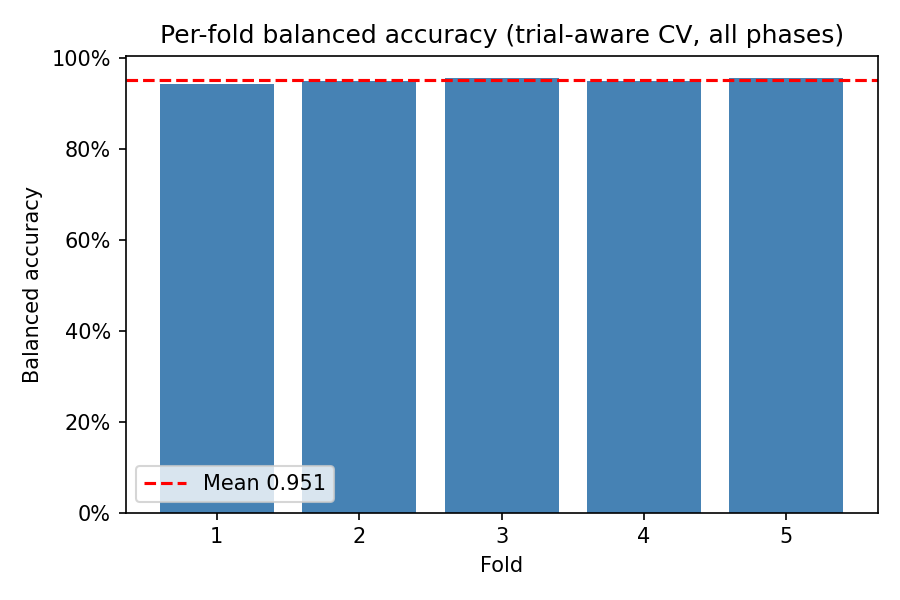
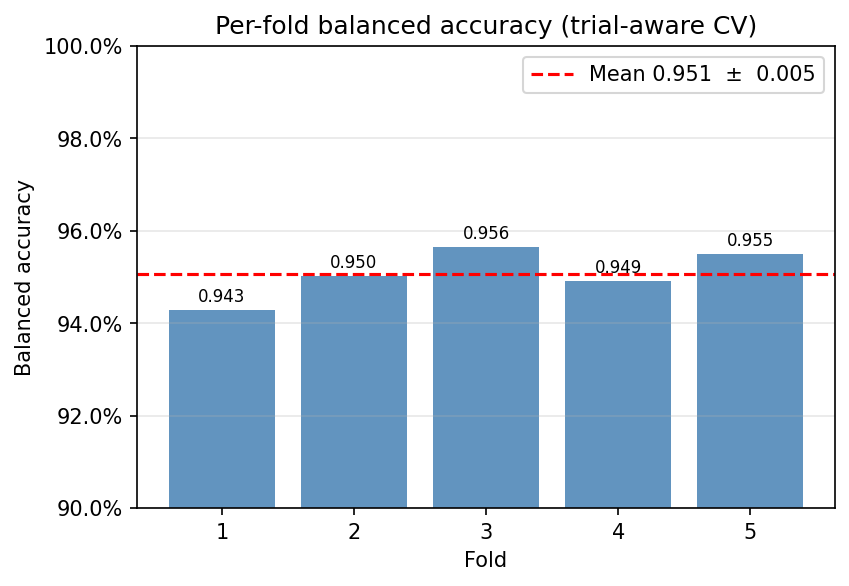
Add recording of parameters vs results for RF training script, also plotting script

diff --git a/server/plot_results.py b/server/plot_results.py
@@ -1,0 +1,203 @@
+'''
+Plot Results Script
+
+Generates visualisations from a trained model's results directory.
+
+Always produced (from results.json + fold_scores.npy):
+  per_class_metrics.png   — precision / recall / F1 per class
+  fold_scores.png         — per-fold balanced accuracy (regenerated)
+
+Produced if cv_results.json exists (saved by train_model_all_phases.py):
+  param_n_estimators.png  — score vs n_estimators (marginalised over other params)
+  param_max_features.png  — score vs max_features
+  param_max_depth.png     — score vs max_depth
+  param_min_samples_leaf.png — score vs min_samples_leaf
+  param_heatmap.png       — n_estimators × max_depth mean score heatmap
+
+Usage:
+  python plot_results.py                    # defaults to results_all_phases/
+  python plot_results.py results_steady
+'''
+
+import os
+import sys
+import json
+import numpy as np
+import matplotlib.pyplot as plt
+import matplotlib.ticker as ticker
+from collections import defaultdict
+
+RESULTS_DIR = sys.argv[1] if len(sys.argv) > 1 else 'results_all_phases'
+
+# ── Load ──────────────────────────────────────────────────────────────────────
+
+with open(os.path.join(RESULTS_DIR, 'results.json')) as f:
+    results = json.load(f)
+
+fold_scores = np.load(os.path.join(RESULTS_DIR, 'fold_scores.npy'))
+classes     = results['class_order']
+report      = results['classification_report']
+best_params = results['best_params']
+
+cv_results_path = os.path.join(RESULTS_DIR, 'cv_results.json')
+cv_results = None
+if os.path.exists(cv_results_path):
+    with open(cv_results_path) as f:
+        cv_results = json.load(f)
+    print('cv_results.json found — parameter comparison plots will be generated.')
+else:
+    print('cv_results.json not found — only metric plots will be generated.')
+    print('Re-run train_model_all_phases.py to produce it on the next training run.')
+
+
+# ── Helpers ───────────────────────────────────────────────────────────────────
+
+def save(fig, name):
+    path = os.path.join(RESULTS_DIR, name)
+    fig.savefig(path, dpi=150, bbox_inches='tight')
+    plt.close(fig)
+    print(f'  Saved {path}')
+
+
+# ── Per-class metrics ─────────────────────────────────────────────────────────
+
+def plot_per_class_metrics():
+    metrics   = ['precision', 'recall', 'f1-score']
+    n_classes = len(classes)
+    x         = np.arange(n_classes)
+    width     = 0.25
+    colors    = ['#4C72B0', '#55A868', '#C44E52']
+
+    fig, ax = plt.subplots(figsize=(9, 5))
+    for i, (metric, color) in enumerate(zip(metrics, colors)):
+        vals = [report[cls][metric] for cls in classes]
+        bars = ax.bar(x + (i - 1) * width, vals, width, label=metric.replace('-score', ''),
+                      color=color, alpha=0.85)
+        for bar, v in zip(bars, vals):
+            ax.text(bar.get_x() + bar.get_width() / 2, bar.get_height() + 0.003,
+                    f'{v:.3f}', ha='center', va='bottom', fontsize=7)
+
+    ax.set_xticks(x)
+    ax.set_xticklabels(classes)
+    ax.set_ylabel('Score')
+    ax.set_ylim(0.88, 1.01)
+    ax.yaxis.set_major_formatter(ticker.PercentFormatter(xmax=1.0))
+    ax.set_title('Per-class precision / recall / F1  (CV, train set)')
+    ax.legend()
+    ax.grid(axis='y', alpha=0.3)
+    save(fig, 'per_class_metrics.png')
+
+
+# ── Fold scores ───────────────────────────────────────────────────────────────
+
+def plot_fold_scores():
+    fig, ax = plt.subplots(figsize=(6, 4))
+    ax.bar(range(1, len(fold_scores) + 1), fold_scores, color='steelblue', alpha=0.85)
+    ax.axhline(fold_scores.mean(), color='red', linestyle='--',
+               label=f'Mean {fold_scores.mean():.3f}  ±  {fold_scores.std():.3f}')
+    for i, s in enumerate(fold_scores):
+        ax.text(i + 1, s + 0.001, f'{s:.3f}', ha='center', va='bottom', fontsize=8)
+    ax.set_xlabel('Fold')
+    ax.set_ylabel('Balanced accuracy')
+    ax.set_ylim(0.9, 1.0)
+    ax.yaxis.set_major_formatter(ticker.PercentFormatter(xmax=1.0))
+    ax.set_title('Per-fold balanced accuracy (trial-aware CV)')
+    ax.legend()
+    ax.grid(axis='y', alpha=0.3)
+    save(fig, 'fold_scores.png')
+
+
+# ── Parameter comparison ──────────────────────────────────────────────────────
+
+def _mean_score_by_param(param_key):
+    '''
+    For each unique value of param_key, collect all mean_test_scores
+    (marginalised over the other parameters) and return value → scores dict.
+    '''
+    param_col = f'param_{param_key}'
+    scores    = np.array(cv_results['mean_test_score'])
+    values    = cv_results[param_col]
+    grouped   = defaultdict(list)
+    for v, s in zip(values, scores):
+        grouped[str(v)].append(s)
+    return grouped
+
+
+def plot_param_marginal(param_key, xlabel, title, fname):
+    grouped = _mean_score_by_param(param_key)
+    labels  = sorted(grouped.keys(), key=lambda x: (x == 'None', x))
+    means   = [np.mean(grouped[l]) for l in labels]
+    stds    = [np.std(grouped[l])  for l in labels]
+
+    # highlight best
+    best_str = str(best_params.get(param_key, ''))
+    colors   = ['#C44E52' if l == best_str else '#4C72B0' for l in labels]
+
+    fig, ax = plt.subplots(figsize=(7, 4))
+    bars = ax.bar(labels, means, yerr=stds, capsize=5, color=colors, alpha=0.85,
+                  error_kw={'elinewidth': 1.5})
+    for bar, m in zip(bars, means):
+        ax.text(bar.get_x() + bar.get_width() / 2, bar.get_height() + 0.001,
+                f'{m:.4f}', ha='center', va='bottom', fontsize=8)
+    ax.set_xlabel(xlabel)
+    ax.set_ylabel('Mean balanced accuracy (CV)')
+    bottom = max(0.0, min(means) - 3 * max(stds) - 0.01)
+    ax.set_ylim(bottom, min(1.0, max(means) + max(stds) + 0.02))
+    ax.yaxis.set_major_formatter(ticker.PercentFormatter(xmax=1.0))
+    ax.set_title(title)
+    ax.grid(axis='y', alpha=0.3)
+    from matplotlib.patches import Patch
+    ax.legend(handles=[Patch(color='#C44E52', label='best selected'),
+                        Patch(color='#4C72B0', label='other')], fontsize=8)
+    save(fig, fname)
+
+
+def plot_heatmap():
+    '''n_estimators (rows) × max_depth (cols) mean score, averaged over other params.'''
+    estimators = sorted(set(str(v) for v in cv_results['param_n_estimators']))
+    depths     = sorted(set(str(v) for v in cv_results['param_max_depth']),
+                        key=lambda x: float('inf') if x == 'None' else float(x))
+    scores_grid = np.zeros((len(estimators), len(depths)))
+    counts_grid = np.zeros_like(scores_grid)
+
+    for e_str, d_str, s in zip(
+        [str(v) for v in cv_results['param_n_estimators']],
+        [str(v) for v in cv_results['param_max_depth']],
+        cv_results['mean_test_score']
+    ):
+        r, c = estimators.index(e_str), depths.index(d_str)
+        scores_grid[r, c] += s
+        counts_grid[r, c] += 1
+
+    mean_grid = scores_grid / np.maximum(counts_grid, 1)
+
+    fig, ax = plt.subplots(figsize=(7, 4))
+    im = ax.imshow(mean_grid, cmap='YlOrRd', aspect='auto',
+                   vmin=mean_grid.min() - 0.002, vmax=mean_grid.max() + 0.002)
+    plt.colorbar(im, ax=ax, label='Mean balanced accuracy')
+    ax.set_xticks(range(len(depths)))
+    ax.set_xticklabels([f'depth={d}' for d in depths])
+    ax.set_yticks(range(len(estimators)))
+    ax.set_yticklabels([f'n={e}' for e in estimators])
+    for r in range(len(estimators)):
+        for c in range(len(depths)):
+            ax.text(c, r, f'{mean_grid[r, c]:.4f}', ha='center', va='center', fontsize=9,
+                    color='black' if mean_grid[r, c] < 0.96 else 'white')
+    ax.set_title('Mean CV score: n_estimators × max_depth\n(averaged over max_features, min_samples_leaf)')
+    save(fig, 'param_heatmap.png')
+
+
+# ── Run ───────────────────────────────────────────────────────────────────────
+
+print(f'\n── Plotting results in {RESULTS_DIR}/ ───────────────────')
+plot_per_class_metrics()
+plot_fold_scores()
+
+if cv_results is not None:
+    plot_param_marginal('n_estimators',     'n_estimators',     'Effect of n_estimators (marginalised)',     'param_n_estimators.png')
+    plot_param_marginal('max_features',     'max_features',     'Effect of max_features (marginalised)',     'param_max_features.png')
+    plot_param_marginal('max_depth',        'max_depth',        'Effect of max_depth (marginalised)',        'param_max_depth.png')
+    plot_param_marginal('min_samples_leaf', 'min_samples_leaf', 'Effect of min_samples_leaf (marginalised)', 'param_min_samples_leaf.png')
+    plot_heatmap()
+
+print('\nDone.')

diff --git a/server/train_model_all_phases.py b/server/train_model_all_phases.py
@@ -256,6 +256,12 @@ def save_results(gs, eval_out, meta, y_tr, X_test, y_test):
     np.save(os.path.join(RESULTS_DIR, 'fold_scores.npy'),
             np.array(eval_out['fold_scores']))
 
+    cv_results_path = os.path.join(RESULTS_DIR, 'cv_results.json')
+    with open(cv_results_path, 'w') as f:
+        json.dump({k: (v.tolist() if hasattr(v, 'tolist') else list(v))
+                   for k, v in gs.cv_results_.items()}, f, indent=2)
+    print(f'  Saved {cv_results_path}')
+
     results = {
         'best_params':            gs.best_params_,
         'best_cv_score':          float(gs.best_score_),
